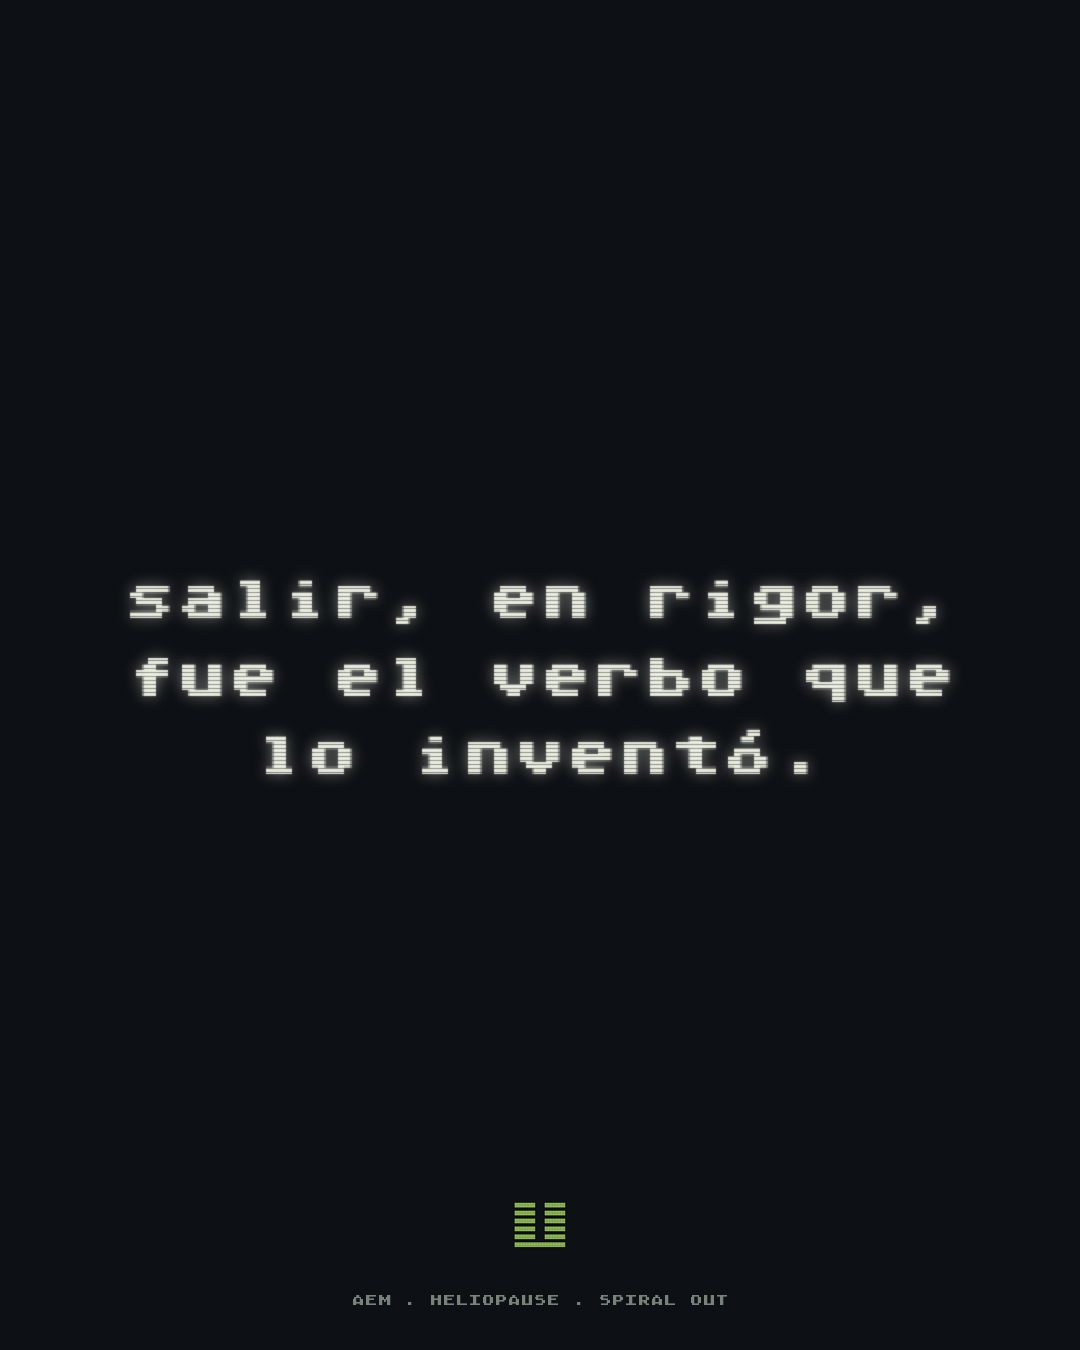
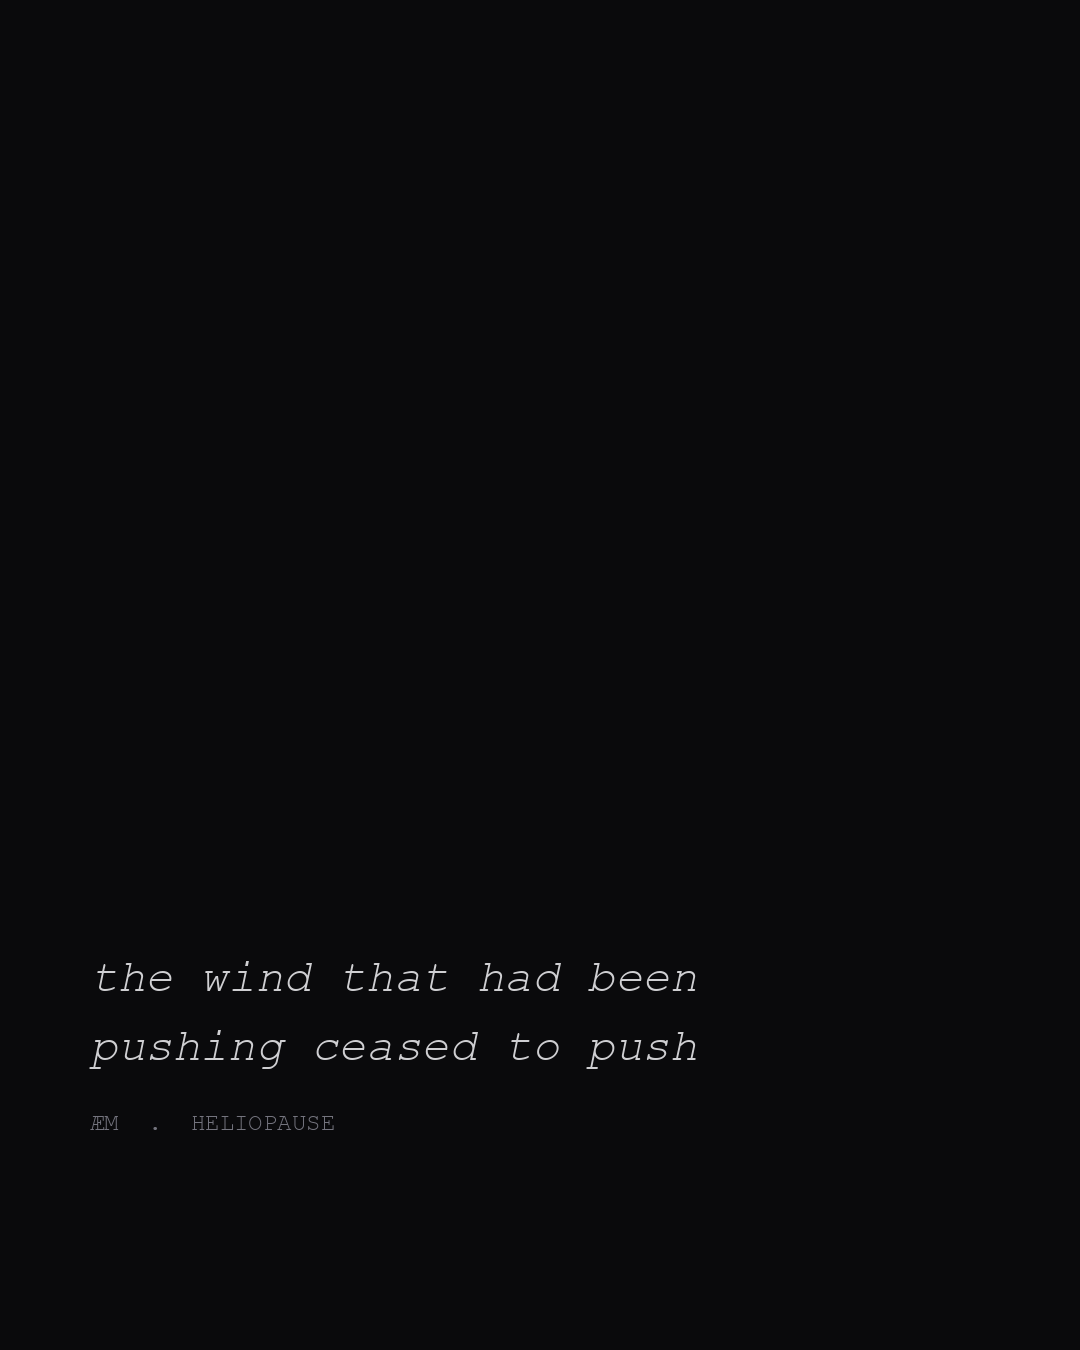
Regenerate feed posts: English, site style (black/Courier italic/muted), bottom-left editorial layout

diff --git a/scripts/make_posts.py b/scripts/make_posts.py
@@ -1,71 +1,63 @@
 #!/usr/bin/env python3
 """Genera los posts estáticos de fragmento (modo B) para IG feed.
 
-Template aprobado: fragmento cifrado en font Atari CRT (fósforo, bone-white,
-scanlines + glow) sobre fondo plano de marca, con la marca hexagrama + un
-readout "AEM · HELIOPAUSE · SPIRAL OUT". 1080×1350 (IG portrait).
+Estilo APROBADO: idéntico al site — fondo negro, Courier New itálica en gris
+claro, texto centrado, firma muted abajo. SIN imagen de fondo, SIN scanlines/
+glow. Minimal, faceless, un fragmento de transmisión plantado solo.
 
-Fragmentos: de transmissions/01/release/textos.md (mezcla ES/EN — el playbook
-permite publicar en idiomas distintos). Font: EightBit Atari (real 8-bit),
-esperada en /tmp/EightBitAtari.ttf (o pasar por env FONT).
+Fragmentos en inglés (textos.md §5.4). 1080×1350 (IG portrait). PNG sin pérdida.
 
-Uso:  python3 scripts/make_posts.py    → escribe redes/aem/social/post_NN.png
+Uso:  python3 scripts/make_posts.py   → redes/aem/social/post_NN.png
 """
 import os, textwrap
-from PIL import Image, ImageDraw, ImageFont, ImageFilter, ImageChops
+from PIL import Image, ImageDraw, ImageFont
 
 ROOT = os.path.dirname(os.path.dirname(os.path.abspath(__file__)))
-FONT = os.environ.get("FONT", "/tmp/EightBitAtari.ttf")
-HEX = os.path.join(ROOT, "transmissions/01/artwork/hexagram/hexagram_24_avatar_1024.png")
 OUTDIR = os.path.join(ROOT, "redes/aem/social")
 os.makedirs(OUTDIR, exist_ok=True)
 
-W, H = 1080, 1350
-BG = (13, 16, 20)
-INK = (228, 232, 214)  # bone white fósforo
+# tokens del site
+BG = (10, 10, 12)      # --bg
+FG = (207, 207, 210)   # --fg
+MUTED = (116, 116, 126)  # --muted
+COUR = "/System/Library/Fonts/Supplemental/Courier New.ttf"
+COUR_I = "/System/Library/Fonts/Supplemental/Courier New Italic.ttf"
 
-# Fragmentos curados (de textos.md §4/§5.4) — mezcla ES/EN
+W, H = 1080, 1350
+
+# Fragmentos en inglés (textos.md §5.4)
 FRAGMENTS = [
-    "no es lo que mandamos. es lo que volvió.",
-    "what returned is not what we sent.",
-    "la espiral no asciende: evoluciona sin volver a ser la misma.",
-    "salir, en rigor, fue el verbo que lo inventó.",
-    "the wind that had been pushing ceased to push.",
-    "una onda no atraviesa un medio: es el medio atravesándose.",
-    "lo que estaba pasando no se cerraba: caracoleaba.",
-    "a note, while heard, forgets it was ever a note.",
-    "avanzar sin cambio es la única forma estable de existir.",
+    "what returned is not what we sent",
+    "the spiral does not ascend: it evolves, never the same",
+    "to leave was, in truth, the verb that invented it",
+    "the wind that had been pushing ceased to push",
+    "a wave is not what crosses a medium: it is the medium itself, crossing",
+    "a note, while heard, no longer remembers having been a note",
+    "what was happening did not close upon itself: it spiraled outward",
+    "motion without change is the only stable form of being the body in transit knows",
+    "a spiral does not contain a trajectory: it is the trajectory beholding itself from within",
 ]
+
+
+M = 90  # margen izquierdo
 
 
 def make_post(text, path):
     im = Image.new("RGB", (W, H), BG)
-    noise = Image.effect_noise((W, H), 14).convert("L").point(lambda p: int((p - 128) * 0.12 + 128))
-    im = ImageChops.overlay(im, Image.merge("RGB", (noise, noise, noise)))
-    # fragmento (font chico -> nearest x2 = pixel Atari grande)
-    S = 2; cw, ch = W // S, H // S
-    tl = Image.new("RGB", (cw, ch), (0, 0, 0)); d = ImageDraw.Draw(tl)
-    f = ImageFont.truetype(FONT, 26)
-    lines = textwrap.wrap(text, 16)
-    y = (ch - len(lines) * int(26 * 1.5)) // 2
+    d = ImageDraw.Draw(im)
+    # fragmento: Courier itálica, gris, ABAJO-IZQUIERDA (editorial / margen de dossier)
+    size = 46
+    f = ImageFont.truetype(COUR_I, size)
+    lines = textwrap.wrap(text, 24)
+    lh = int(size * 1.5)
+    y = H - 260 - len(lines) * lh
     for ln in lines:
-        w = d.textlength(ln, font=f); d.text(((cw - w) // 2, y), ln, font=f, fill=INK); y += int(26 * 1.5)
-    tl = tl.resize((W, H), Image.NEAREST)
-    sl = Image.new("L", (W, H), 255); ds = ImageDraw.Draw(sl)
-    for yy in range(0, H, 4):
-        ds.line([(0, yy), (W, yy)], fill=95)
-    tl = ImageChops.multiply(tl, Image.merge("RGB", (sl, sl, sl)))
-    glow = tl.filter(ImageFilter.GaussianBlur(7)).point(lambda p: int(p * 0.55))
-    out = ImageChops.screen(im, glow)
-    out = ImageChops.screen(out, tl.filter(ImageFilter.GaussianBlur(0.6))).convert("RGBA")
-    # marca + readout
-    if os.path.exists(HEX):
-        hexi = Image.open(HEX).convert("RGBA").resize((90, 90))
-        out.alpha_composite(hexi, ((W - 90) // 2, H - 170))
-    d2 = ImageDraw.Draw(out); fs = ImageFont.truetype(FONT, 13)
-    tag = "AEM . HELIOPAUSE . SPIRAL OUT"; w = d2.textlength(tag, font=fs)
-    d2.text(((W - w) // 2, H - 60), tag, font=fs, fill=(120, 130, 120))
-    out.convert("RGB").save(path)
+        d.text((M, y), ln, font=f, fill=FG)
+        y += lh
+    # firma muted debajo del fragmento
+    y += 20
+    d.text((M, y), "ÆM  .  HELIOPAUSE", font=ImageFont.truetype(COUR, 24), fill=MUTED)
+    im.save(path)
 
 
 if __name__ == "__main__":
